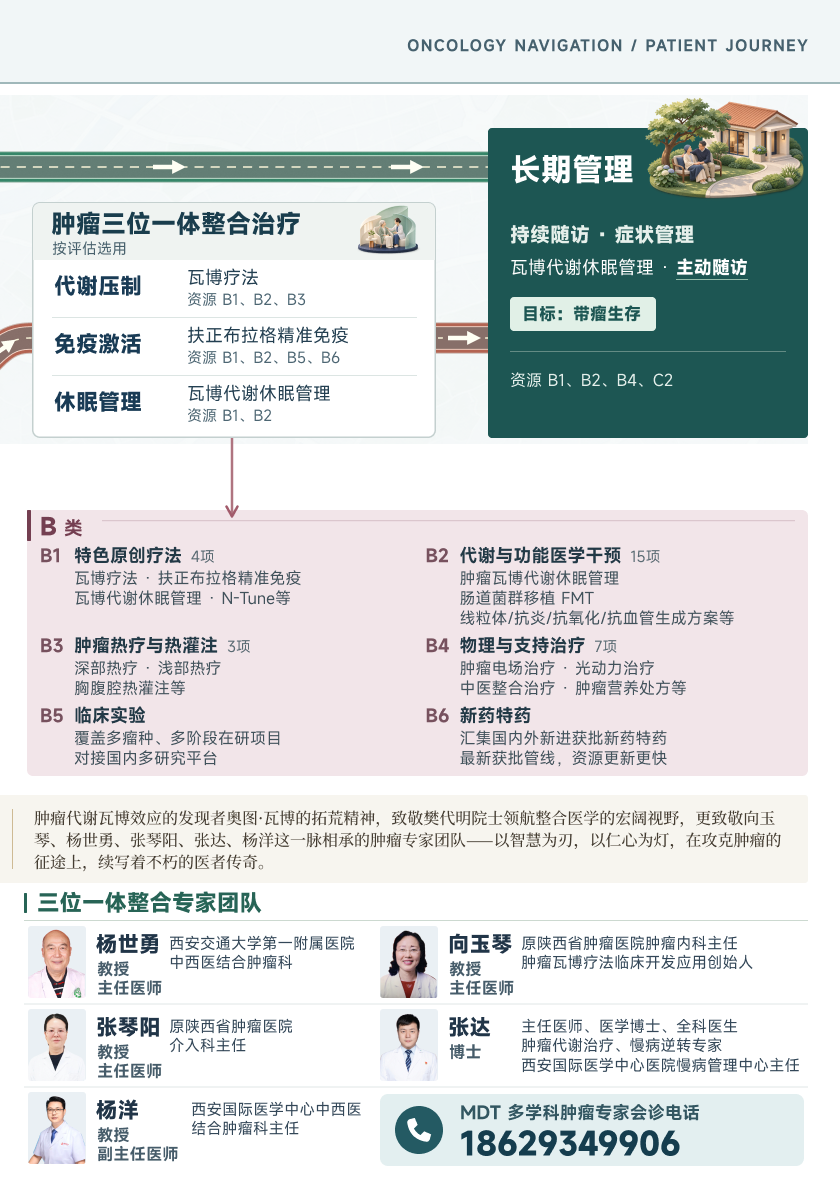
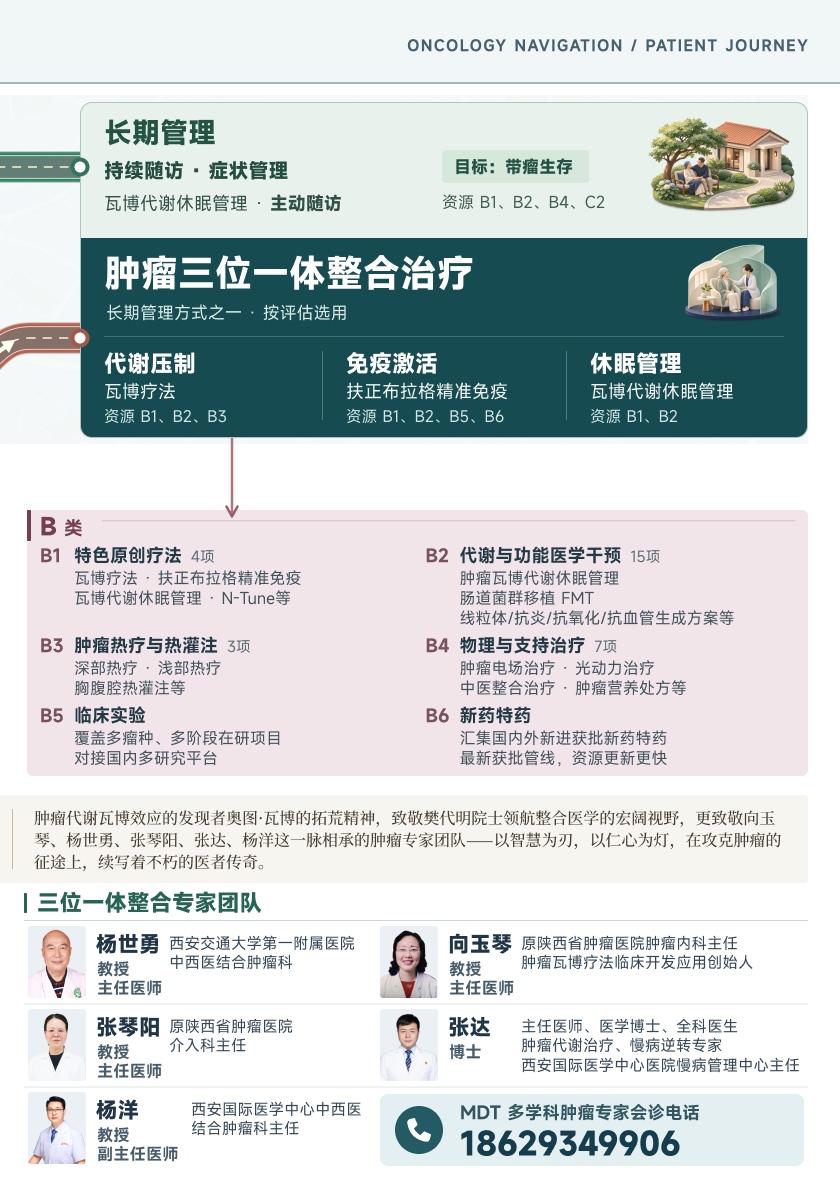
Separate rehabilitation and integrated care endpoints on the map

Changed region(s): [[0.031, 0.0623, 0.9595, 0.3737]]

diff --git a/index.html b/index.html
@@ -1,5 +1,5 @@
 <!doctype html>
-<html lang="zh-CN" data-edition="map-01a0db01c">
+<html lang="zh-CN" data-edition="map-c25005a7c">
 <head>
 <meta charset="utf-8">
 <meta name="viewport" content="width=device-width, initial-scale=1, viewport-fit=cover">
@@ -7,11 +7,11 @@
 <meta name="robots" content="noindex,nofollow">
 <title>肿瘤治疗导航图 · 三折页</title>
 <link rel="icon" href="mark.svg" type="image/svg+xml">
-<link rel="preload" as="image" href="assets/front-1.webp?v=map-01a0db01c">
-<link rel="stylesheet" href="viewer.css?v=map-01a0db01c">
-<link rel="stylesheet" href="paper.css?v=map-01a0db01c">
-<script src="physics.js?v=map-01a0db01c" defer></script>
-<script src="viewer.js?v=map-01a0db01c" defer></script>
+<link rel="preload" as="image" href="assets/front-1.webp?v=map-c25005a7c">
+<link rel="stylesheet" href="viewer.css?v=map-c25005a7c">
+<link rel="stylesheet" href="paper.css?v=map-c25005a7c">
+<script src="physics.js?v=map-c25005a7c" defer></script>
+<script src="viewer.js?v=map-c25005a7c" defer></script>
 </head>
 <body>
 <svg class="symbols" aria-hidden="true" xmlns="http://www.w3.org/2000/svg"><defs>
@@ -28,7 +28,7 @@
 <button type="button" id="read" class="read-link" aria-haspopup="dialog"><svg><use href="#i-book"/></svg><span id="read-label">查看内页</span></button></header>
 <section class="exhibit" aria-label="交互三折页">
 <div id="paper" aria-label="折页模型，左右拖动可展开或收起，轻点折面可放大"></div>
-<noscript><div class="no-js"><img src="assets/front-1.webp?v=map-01a0db01c" alt="肿瘤治疗导航图封面"><p>请开启 JavaScript 体验折叠，或直接打开图稿。</p><a href="assets/front-2-hd.webp?v=map-01a0db01c">地图左页</a> · <a href="assets/front-3-hd.webp?v=map-01a0db01c">地图右页</a> · <a href="assets/back-2-hd.webp?v=map-01a0db01c">肺癌病例</a> · <a href="assets/back-3-hd.webp?v=map-01a0db01c">胰腺癌病例</a></div></noscript>
+<noscript><div class="no-js"><img src="assets/front-1.webp?v=map-c25005a7c" alt="肿瘤治疗导航图封面"><p>请开启 JavaScript 体验折叠，或直接打开图稿。</p><a href="assets/front-2-hd.webp?v=map-c25005a7c">地图左页</a> · <a href="assets/front-3-hd.webp?v=map-c25005a7c">地图右页</a> · <a href="assets/back-2-hd.webp?v=map-c25005a7c">肺癌病例</a> · <a href="assets/back-3-hd.webp?v=map-c25005a7c">胰腺癌病例</a></div></noscript>
 </section>
 <footer class="control-area">
 <div class="control-tray" aria-label="折页操作"><div class="fold-steps" role="group" aria-label="开合程度">
